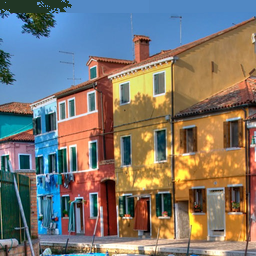
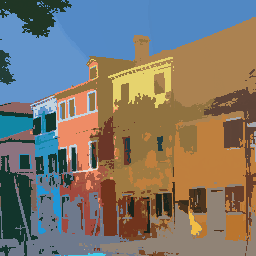
Added Models + Fixed mean shift to work with smaller simul values

diff --git a/A2/mean-shift/mean_shift.py b/A2/mean-shift/mean_shift.py
@@ -9,7 +9,7 @@ device = th.device('cuda') if th.cuda.is_available() else th.device('cpu')
 M = 128
 # The reference implementation works in chunks. Set this as high as possible
 # while fitting the intermediary calculations in memory.
-simul = 50 * 50
+simul = M ** 2 // 1
 
 im = th.from_numpy(imageio.imread(f'./{M}.png') / 255.).to(device)
 
@@ -35,41 +35,31 @@ for zeta in [1, 4]:
             # We walk through the points in `shifted` in chunks of `simul`
             # points. Note that for each point, you should compute the distance
             # to _all_ other points, not only the points in the current chunk.
-            chunk = shifted[to_do[:simul]].clone()
-            chunk_before = chunk.clone()
-            # TODO: Mean shift iterations (15), writing back the result into shifted.
-            I = th.where( # N, simul
-                th.norm(
-                    (shifted[:, None] - chunk[None, :]) / h, # N, simul, m
-                    dim=(-1)
-                ) ** 2 <= 1,
-                True,
-                False
-            )
-            card = I.count_nonzero(dim=0)
-            for i in range(len(chunk)):
-                chunk[i] = shifted[I[:, i]].sum(0) / card[i]
-                pass
+            chunk_size = min(simul, len(to_do))
+            chunk_indices = to_do[:chunk_size]
+            chunk = shifted[chunk_indices].clone()
 
-            shifted[to_do[:simul]] = chunk.clone()
-            # TODO: Termination criterion (17). cond should be True for samples
-            # that need updating. Note that chunk contains the 'old' values.
-            cond = th.where(
-                th.norm(chunk - chunk_before, dim=1) ** 2 < 1e-6,
-                False,
-                True
-            )
+            # Mean shift iterations (15)
+            distances = th.cdist(chunk, features) ** 2
+            weights = (distances <= h**2).double()
+            numerator = th.sum(weights[:, :, None] * features[None, :, :], dim=1)
+            denominator = th.sum(weights, dim=1, keepdim=True)
+            shifted[chunk_indices] = numerator / denominator
+
+            # Termination criterion (17)
+            cond = th.norm(shifted[chunk_indices] - chunk, dim=1)**2 < 1e-6
             # We only keep the points for which the stopping criterion is not met.
             # `cond` should be a boolean array of length `simul` that indicates
             # which points should be kept.
-            to_do = to_do[th.cat((
-                cond, cond.new_ones(to_do.shape[0] - cond.shape[0])
-            ))]
+            to_do = to_do[chunk_size:]  # Remaining indices after the current chunk
+            to_do = th.cat((to_do, chunk_indices[~cond]))
+
             artist.set_data(shifted.view(M, M, 5).cpu()[:, :, :3])
-            plt.show()
+            # plt.show()
             plt.pause(0.01)
             print(f"Zeta={zeta}, h={h}: {len(to_do)} Pixels left.")
         # Reference images were saved using this code.
+        print(f"--Saving zeta={zeta}, h={h}--")
         imageio.imsave(
             f'./implementation/{M}/zeta_{zeta:1.1f}_h_{h:.2f}.png',
             (shifted.reshape(M, M, 5)[..., :3].clone().cpu().numpy()*255).astype("uint8")

diff --git a/A2/bayesian-denoising/denoising.py b/A2/bayesian-denoising/denoising.py
@@ -152,8 +152,8 @@ if __name__ == "__main__":
     use_toy_data = False
     # Parameters for the GMM: Components and window size, m = w ** 2
     # Use K = 2 for toy/debug model
-    K = 10
-    w = 5
+    K = 3
+    w = 3
     if do_training:
         train(use_toy_data, K, w)
     else:
